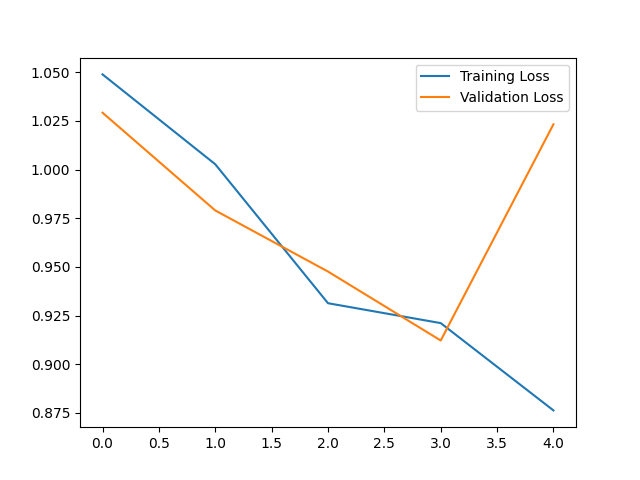
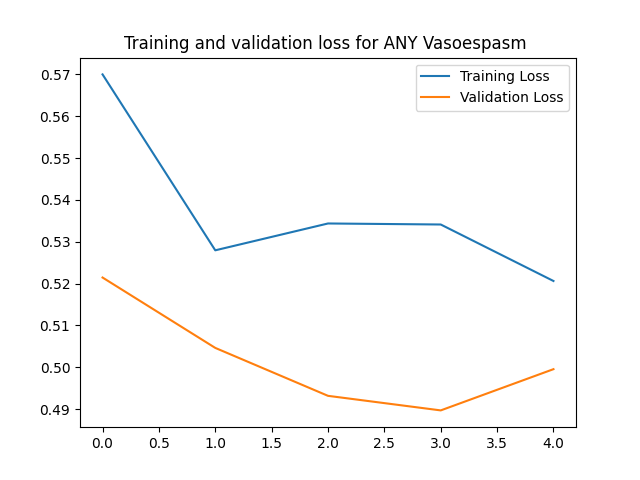
plots

diff --git a/main_iterations.py b/main_iterations.py
@@ -61,7 +61,7 @@ for k in range(nb_iterations):
     # Save scores and weights
     results.append({'seed': seed, 'auc_roc_val': results_auc_roc[0]})
 
-    path = f"{configs.DIR}checkpoints/model_seed_{seed}_auc_{results_auc_roc[0]:.4f}.pt"
+    path = f"{configs.DIR}checkpoints/model_seed_{seed}_auc_{results_auc_roc[0]:.4f}_output_{configs.target_output}.pt"
     torch.save(model.state_dict(), path)
 
     # To print curves
@@ -93,7 +93,7 @@ plt.close()
 
 
 # Save the list of all models
-path = f"{configs.DIR}checkpoints/auc_roc_val_scores.csv"
+path = f"{configs.DIR}checkpoints/auc_roc_val_scores_{configs.target_output}.csv"
 with open(path, "w", newline="") as csvfile:
     writer = csv.DictWriter(csvfile, fieldnames=["seed", "auc_roc_val"])
     writer.writeheader()
@@ -115,7 +115,7 @@ for item in top_5_models:
     seed = item['seed']
     auc_roc_val = item['auc_roc_val']
     model = get_model(prob=0.5, image_backbone="se_resnext50_32x4d", pretrained = "medical", classifier=Classifier_Many_Layers, metadata=True) #prob = prob for dropout
-    path = f"checkpoints/model_seed_{seed}_auc_{auc_roc_val:.4f}.pt"
+    path = f"checkpoints/model_seed_{seed}_auc_{auc_roc_val:.4f}_output_{configs.target_output}.pt"
     state_dict = torch.load(path, map_location=configs.device)
     model.load_state_dict(state_dict)
     my_model=Model_extented(model, epochs=5, lr=1)
@@ -127,7 +127,7 @@ for item in top_5_models:
         assert np.array_equal(labels_ref, labels)
 
     all_predictions.append(probs)
-
+        
 # Take the mean of predictions
 mean_predictions = np.mean(np.stack(all_predictions), axis=0)
 
@@ -149,10 +149,10 @@ plt.close()
 print(f"AUC ROC (5-model ensemble average) for {configs.target_output} = {auc_roc:.4f}")
 
 # Take the max of predictions
-mean_predictions = np.max(np.stack(all_predictions), axis=0)
+max_predictions = np.max(np.stack(all_predictions), axis=0)
 
 # Final auc roc score
-fpr, tpr, _ = roc_curve(labels_ref, mean_predictions) #false positiv rate and true positiv rate
+fpr, tpr, _ = roc_curve(labels_ref, max_predictions) #false positiv rate and true positiv rate
 auc_roc = auc(fpr, tpr) 
 plt.figure()
 plt.plot(fpr, tpr, lw=lw, label=f'(AUC = {auc_roc:.2f})')

diff --git a/main.py b/main.py
@@ -45,6 +45,7 @@ my_model.trainloop(trainloader, validloader)
 # Training loss and validation loss
 plt.plot(my_model.loss_during_training,label='Training Loss')
 plt.plot(my_model.valid_loss_during_training,label='Validation Loss')
+plt.title(f"Training and validation loss for {configs.target_output}")
 plt.legend()
 # plt.show()
 plt.savefig(f"{configs.DIR}/results/loss.png") 
@@ -53,6 +54,7 @@ plt.close()
 # Training and validation accuracy
 plt.plot(my_model.accuracy_during_training,label='Training Accuracy')
 plt.plot(my_model.valid_accuracy_during_training,label='Validation Accuracy')
+plt.title(f"Training and validation accuracy for {configs.target_output}")
 plt.legend()
 # plt.show()
 plt.savefig(f"{configs.DIR}/results/accuracy.png") 

diff --git a/configs.py b/configs.py
@@ -3,7 +3,7 @@ TEST_SIZE = 0.3
 CHANNELS = 3
 HEIGHT = 256
 WIDTH = 256
-SEED = 12345 #for reproductability
+SEED = 30031 #for reproductability
 
 split_train = 0.6
 split_valid = 0.3
@@ -21,7 +21,7 @@ DATA_DIR = '/export/usuarios01/lmurat/Datos/Predictions-SAH/Data/'
 DIR = '/export/usuarios01/lmurat/Datos/Predictions-SAH/'
 
 # Output : 
-# 0-1 (num_classes = 2): 'Rebleeding, 'VasoespasmoA', 'ANY Vasoespasm ', 'Hydrocephalus', 'Infarction', 'Exitus', 'Epileptic seizure'
+# 0-1 (num_classes = 2): 'Rebleeding', 'VasoespasmA', 'ANY Vasoespasm ', 'Hydrocephalus', 'Infarction', 'Exitus', 'Epileptic seizure'
 # 0-6 (num_classes = 7): 'mRSalta', 'mRS1año'
 # 0-38+ (num_classes = 3): 'DiasVM'
 # 0-108+ (num_classes = 3): 'DiasUCI'

diff --git a/dataloader.py b/dataloader.py
@@ -214,7 +214,8 @@ def split_data(df, random_seed):
         patient_df,
         test_size=configs.split_test,
         stratify=patient_df[configs.target_output],
-        random_state=configs.SEED  # <- fix seed
+        # random_state=configs.SEED  # <- fix seed
+        random_state=12345
     )
 
     train_size = configs.split_train/(configs.split_valid + configs.split_train)
